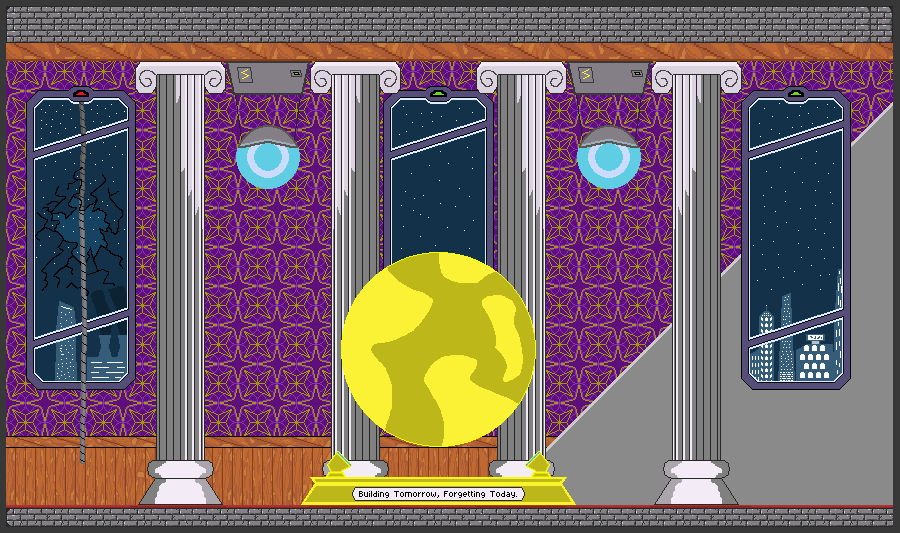
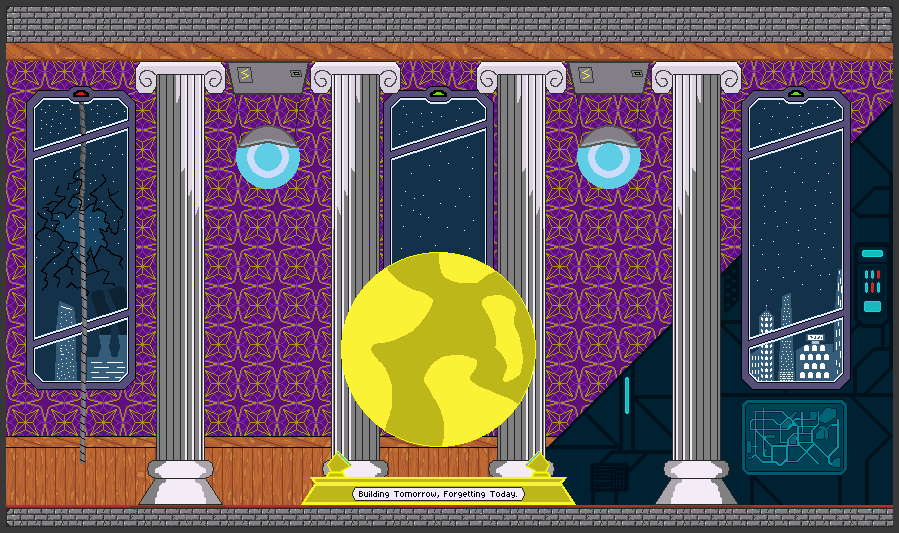
Changed theme for existing backgrounds and added a new one

Changed region(s): [[0.1869, 0.0, 0.9967, 0.9906], [0.4049, 0.9006, 0.5918, 0.9306]]

diff --git a/source/core/src/main/com/csse3200/game/areas/ForestGameArea.java b/source/core/src/main/com/csse3200/game/areas/ForestGameArea.java
@@ -93,7 +93,6 @@ public class ForestGameArea extends GameArea {
             "images/dagger.png",
             "images/laser_shot.png",
             "images/Spawn.png",
-            "images/SpawnResize.png",
             "images/LobbyWIP.png",
             "images/door.png",
             "images/KeycardDoor.png",
@@ -119,7 +118,6 @@ public class ForestGameArea extends GameArea {
             "images/monster.png",
             "images/electric_zap.png",
             "images/lightning_bottle.png",
-            "images/Shipping.png",
             "images/ShipmentBoxLid.png",
             "images/ShipmentCrane.png",
             "images/Conveyor.png",
@@ -129,7 +127,13 @@ public class ForestGameArea extends GameArea {
             "foreg_sprites/furniture/ServerRack.png",
             "foreg_sprites/furniture/ServerRack2.png",
             "foreg_sprites/furniture/Vent.png",
-            "images/Storage.png"
+    };
+
+    private static final String[] backgroundTextures = {
+            "backgrounds/Reception.png",
+            "backgrounds/Shipping.png",
+            "backgrounds/SpawnResize.png",
+            "backgrounds/Storage.png"
     };
 
     /**
@@ -613,6 +617,7 @@ public class ForestGameArea extends GameArea {
         resourceService.loadTextures(futuristicTextures);
         resourceService.loadTextures(keycardTextures);
         resourceService.loadTextures(generalTextures);
+        resourceService.loadTextures(backgroundTextures);
         resourceService.loadTextures(forestTextures);
         resourceService.loadTextures(spawnPadTextures);
         resourceService.loadTextures(officeTextures);
@@ -640,6 +645,7 @@ public class ForestGameArea extends GameArea {
         resourceService.unloadAssets(keycardTextures);
         resourceService.unloadAssets(futuristicTextures);
         resourceService.unloadAssets(playerSound1);
+        resourceService.unloadAssets(backgroundTextures);
         resourceService.unloadAssets(forestTextures);
         resourceService.unloadAssets(generalTextures);
         resourceService.unloadAssets(forestTextureAtlases);

diff --git a/source/core/src/main/com/csse3200/game/areas/terrain/TerrainFactory.java b/source/core/src/main/com/csse3200/game/areas/terrain/TerrainFactory.java
@@ -60,15 +60,15 @@ public class TerrainFactory {
         switch (terrainType) {
             case SPAWN_ROOM:
                 TextureRegion spawnBackground =
-                        new TextureRegion(resourceService.getAsset("images/SpawnResize.png", Texture.class));
+                        new TextureRegion(resourceService.getAsset("backgrounds/SpawnResize.png", Texture.class));
                 return createGameRooms(0.5f, spawnBackground);
             case STORAGE:
                 TextureRegion storageBackground =
-                        new TextureRegion(resourceService.getAsset("images/Storage.png", Texture.class));
+                        new TextureRegion(resourceService.getAsset("backgrounds/Storage.png", Texture.class));
                 return createGameRooms(0.5f, storageBackground);
             case LOBBY:
                 TextureRegion lobbyBackground =
-                        new TextureRegion(resourceService.getAsset("images/background-reception.png", Texture.class));
+                        new TextureRegion(resourceService.getAsset("backgrounds/Reception.png", Texture.class));
                 return createGameRooms(0.5f, lobbyBackground);
             case OFFICE:
                 TextureRegion officeBackground =
@@ -96,7 +96,7 @@ public class TerrainFactory {
                 return createGameRooms(0.5f, hallBackground);
             case SHIPPING:
                 TextureRegion shippingBackground =
-                        new TextureRegion(resourceService.getAsset("images/Shipping.png", Texture.class));
+                        new TextureRegion(resourceService.getAsset("backgrounds/Shipping.png", Texture.class));
                 return createGameRooms(0.5f, shippingBackground);
             case ELEVATOR:
                 TextureRegion elevatorBackground =
